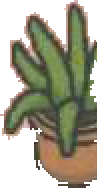
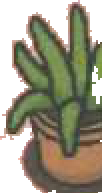
Murdoku: switch to a house theme with all object art cropped from the PDF
Per request, the map is now a house (Master Bedroom, Living Room, Kitchen, Guest
Room, Bathroom, Office, Hallway, Dining Room, Garden, Basement), so every object
can come straight from the reference book. All 8 objects are cropped from the
book's art: table, TV, plant, bookcase, box (blocked) and chair, rug, bed
(occupiable). No Iconify fallbacks remain.

- engine.js: house rooms/objects; occupiable model is chair/rug/bed; clues use
  the book's vocabulary ("sitting on a chair", "on the rug", "on a bed", "next
  to the box/table/bookcase", "in front of a window"). Rook rule, victim/culprit
  and accuse flow unchanged — 40/40 unique, 0 rook/crime violations.
- murdoku.js: all objects served as local PNG sprites; added room floor colours.
- Fixed the earlier colour-loss: background removal now floods from the edges and
  keeps only the largest blob, so light objects (chair) and tan ones (table, box)
  keep their fill instead of being eaten.

The book's object set is exactly these (its official "Lista de objetos"), so
this is the full, consistent set — no more mixed styles.

diff --git a/play/murdoku/engine.js b/play/murdoku/engine.js
@@ -1,15 +1,16 @@
-/* Murdoku — case engine (pure, no DOM). Murder + Sudoku.
-   Floor plan of named rooms (varied sizes). Walls are thin lines on tile edges.
-   Rules: every suspect stood on one floor tile; no two share a row or a column
-   (placing one rules out its row + column). Furniture is blocked; the bench is
-   occupiable. Suspects are shown in alphabetical order; avatars match each name's
-   gender. Text is EN or PT-PT (pre-1990 spelling) via localStorage "nftw:lang".
-   Cases seeded by number; clue sets minimised to one solution. Browser + Node. */
+/* Murdoku — case engine (pure, no DOM). Murder + Sudoku, house edition.
+   A house floor plan of named rooms (varied sizes). Walls are thin lines on tile
+   edges. Rules: every person stood on one floor tile; no two share a row or a
+   column (placing one rules out its row + column). Furniture is blocked (table,
+   TV, plant, bookcase, box); chairs, rugs and beds are occupiable. Suspects are
+   named alphabetically from A; the victim's name starts with V and shares a room
+   with exactly one suspect — the culprit. EN or PT-PT (pre-1990 spelling) via
+   localStorage "nftw:lang". Cases seeded by number; clues minimised to one
+   solution. Object art is cropped from the reference book. Browser + Node. */
 (function (global) {
   "use strict";
   const L = (typeof localStorage !== "undefined" && localStorage.getItem("nftw:lang") === "pt") ? "pt" : "en";
 
-  // Suspects are always named A, B, C … in order; the victim's name starts with V.
   const ALPHA = [
     { name: "Alice", color: "#e05a4a", g: "f" }, { name: "Benjamin", color: "#6c8cff", g: "m" },
     { name: "Charlotte", color: "#e8c84a", g: "f" }, { name: "Daniel", color: "#d98cc0", g: "m" },
@@ -22,66 +23,56 @@
     { name: "Victor", g: "m" }, { name: "Vivian", g: "f" }, { name: "Vincent", g: "m" },
     { name: "Vera", g: "f" }, { name: "Violet", g: "f" },
   ];
-  const FIX = {
-    crate: "the crates", banner: "the promo stand", cheese: "the deli counter",
-    flowers: "the flowers", plant: "the potted plant", apples: "the apples",
-    coffee: "the coffee machine", bread: "the fresh bread", desk: "the desk",
-    safe: "the safe", till: "the tills", tv: "the TV", bench: "the bench",
-  };
+  // objects (match the book). blocked: table/tv/plant/bookshelf/box; occupiable: chair/rug/bed.
+  const FIX = { table: "the table", tv: "the TV", plant: "the potted plant", bookshelf: "the bookcase", box: "the box", chair: "the chair", rug: "the rug", bed: "the bed" };
   const FIXPT = {
-    crate: { art: "os", noun: "caixotes" }, banner: { art: "o", noun: "expositor promocional" },
-    cheese: { art: "o", noun: "balcão da charcutaria" }, flowers: { art: "as", noun: "flores" },
-    plant: { art: "a", noun: "planta em vaso" }, apples: { art: "as", noun: "maçãs" },
-    coffee: { art: "a", noun: "máquina de café" }, bread: { art: "o", noun: "pão fresco" },
-    desk: { art: "a", noun: "secretária" }, safe: { art: "o", noun: "cofre" },
-    till: { art: "as", noun: "caixas registadoras" }, tv: { art: "a", noun: "televisão" }, bench: { art: "o", noun: "banco" },
+    table: { art: "a", noun: "mesa" }, tv: { art: "a", noun: "televisão" }, plant: { art: "a", noun: "planta" },
+    bookshelf: { art: "a", noun: "estante" }, box: { art: "a", noun: "caixa" }, chair: { art: "a", noun: "cadeira" },
+    rug: { art: "o", noun: "tapete" }, bed: { art: "a", noun: "cama" },
   };
   const DE = { o: "do", a: "da", os: "dos", as: "das" };
   const EM = { o: "no", a: "na", os: "nos", as: "nas" };
 
-  // ---- floor plan (rooms tile the interior; every tile belongs to a named room) ----
-  const W = 12, H = 12, TS = 32;   // 32px tiles ⇒ room for detailed, legible object art
+  const W = 12, H = 12, TS = 32;
   const idx = (x, y) => y * W + x;
   const ROOMS = [
-    { name: "Storage Room", pt: "Armazém", art: "o", color: "grey", x: 1, y: 1, w: 3, h: 3 },
-    { name: "Promotional Area", pt: "Área Promocional", art: "a", color: "green", x: 4, y: 1, w: 4, h: 2 },
-    { name: "Deli Counter", pt: "Charcutaria", art: "a", color: "yellow", x: 8, y: 1, w: 3, h: 4 },
-    { name: "Produce Section", pt: "Secção de Frescos", art: "a", color: "green", x: 4, y: 3, w: 4, h: 3 },
-    { name: "Flower Stand", pt: "Banca das Flores", art: "a", color: "green", x: 1, y: 4, w: 3, h: 3 },
+    { name: "Master Bedroom", pt: "Quarto Principal", art: "o", color: "blue", x: 1, y: 1, w: 3, h: 3 },
+    { name: "Living Room", pt: "Sala de Estar", art: "a", color: "green", x: 4, y: 1, w: 4, h: 2 },
+    { name: "Kitchen", pt: "Cozinha", art: "a", color: "tan", x: 8, y: 1, w: 3, h: 4 },
+    { name: "Guest Room", pt: "Quarto de Hóspedes", art: "o", color: "pink", x: 4, y: 3, w: 4, h: 3 },
+    { name: "Bathroom", pt: "Casa de Banho", art: "a", color: "blue", x: 1, y: 4, w: 3, h: 3 },
     { name: "Office", pt: "Escritório", art: "o", color: "grey", x: 4, y: 6, w: 4, h: 3 },
-    { name: "Staff Room", pt: "Sala do Pessoal", art: "a", color: "grey", x: 1, y: 7, w: 3, h: 2 },
-    { name: "Bakery", pt: "Padaria", art: "a", color: "yellow", x: 1, y: 9, w: 3, h: 2 },
-    { name: "Loading Bay", pt: "Cais de Carga", art: "o", color: "grey", x: 4, y: 9, w: 4, h: 2 },
-    { name: "Checkout", pt: "Caixas", art: "as", color: "yellow", x: 8, y: 6, w: 3, h: 5 },
+    { name: "Hallway", pt: "Corredor", art: "o", color: "tan", x: 1, y: 7, w: 3, h: 2 },
+    { name: "Dining Room", pt: "Sala de Jantar", art: "a", color: "yellow", x: 1, y: 9, w: 3, h: 2 },
+    { name: "Garden", pt: "Quintal", art: "o", color: "green", x: 4, y: 9, w: 4, h: 2 },
+    { name: "Basement", pt: "Cave", art: "a", color: "grey", x: 8, y: 6, w: 3, h: 5 },
   ];
-  const FURN = [
-    ["crate", 1, 1], ["crate", 3, 3], ["tv", 4, 1], ["banner", 6, 1],
-    ["cheese", 8, 1], ["cheese", 9, 1], ["cheese", 10, 1],
-    ["apples", 5, 3], ["apples", 6, 3], ["flowers", 1, 4], ["plant", 3, 6],
-    ["desk", 4, 6], ["safe", 6, 8], ["coffee", 1, 7],
-    ["bread", 1, 9], ["bread", 3, 10], ["crate", 5, 9], ["crate", 7, 10],
-    ["till", 8, 6], ["till", 9, 6], ["till", 10, 6],
+  const FURN = [ // blocked
+    ["plant", 3, 1], ["tv", 4, 1], ["plant", 7, 2], ["box", 8, 1], ["table", 9, 1], ["plant", 10, 3],
+    ["bookshelf", 4, 3], ["plant", 7, 5], ["plant", 1, 4], ["table", 4, 6], ["bookshelf", 7, 6], ["box", 6, 8],
+    ["plant", 1, 8], ["table", 2, 9], ["plant", 3, 10], ["plant", 5, 9], ["box", 7, 10],
+    ["box", 8, 6], ["box", 9, 6], ["bookshelf", 10, 10], ["tv", 8, 10],
   ];
-  const BENCH = [[2, 8], [3, 8]];                 // 2-tile bench in the Staff Room (occupiable)
-  const RUGS = [[5, 7]];                          // rug in the Office (occupiable)
+  const OCC = [ // occupiable (walkable): a person can be on a chair, rug or bed
+    ["bed", 1, 1], ["chair", 6, 1], ["bed", 5, 3], ["rug", 2, 5],
+    ["chair", 5, 7], ["rug", 2, 7], ["chair", 1, 9], ["rug", 10, 9], ["chair", 3, 3], ["rug", 9, 8],
+  ];
   const VOID = [[8, 5], [9, 5], [10, 5]];
   const WINDOWS = [[5, 1, "T"], [9, 1, "T"], [10, 7, "R"], [10, 9, "R"], [1, 5, "L"], [1, 10, "L"]];
 
   function buildMap() {
     const roomAt = (x, y) => ROOMS.findIndex((r) => x >= r.x && x < r.x + r.w && y >= r.y && y < r.y + r.h);
     const furnAt = {}; FURN.forEach(([k, x, y]) => (furnAt[idx(x, y)] = k));
-    const benchSet = new Set(BENCH.map(([x, y]) => idx(x, y)));
-    const rugSet = new Set(RUGS.map(([x, y]) => idx(x, y)));
+    const occAt = {}; OCC.forEach(([k, x, y]) => (occAt[idx(x, y)] = k));
     const voidSet = new Set(VOID.map(([x, y]) => idx(x, y)));
     const tiles = new Array(W * H);
     for (let y = 0; y < H; y++) for (let x = 0; x < W; x++) {
       const i = idx(x, y);
       const interior = x >= 1 && x <= W - 2 && y >= 1 && y <= H - 2 && !voidSet.has(i);
       let type = "void", room = -1;
-      if (interior) { room = roomAt(x, y); type = furnAt[i] ? "furn" : (benchSet.has(i) ? "bench" : (rugSet.has(i) ? "rug" : "floor")); }
-      tiles[i] = { x, y, room, type, fixture: furnAt[i] || null, walkable: (type === "floor" || type === "bench" || type === "rug") };
+      if (interior) { room = roomAt(x, y); type = furnAt[i] ? "furn" : (occAt[i] ? "occ" : "floor"); }
+      tiles[i] = { x, y, room, type, fixture: furnAt[i] || null, occ: occAt[i] || null, walkable: (type === "floor" || type === "occ") };
     }
-    // room label anchored to the bottom-centre of each room so it doesn't cover objects
     ROOMS.forEach((r) => (r.label = { x: r.x + (r.w - 1) / 2, y: r.y + r.h - 1 }));
     return tiles;
   }
@@ -89,24 +80,23 @@
   function context(tiles) {
     const walk = [], roomCells = [];
     for (const t of tiles) if (t.walkable) { walk.push(idx(t.x, t.y)); if (t.room >= 0) roomCells.push(idx(t.x, t.y)); }
-    const beside = {};                              // "ao lado" = orthogonally adjacent, SAME division only
-    for (const t of tiles) if (t.fixture) {
-      const s = beside[t.fixture] || (beside[t.fixture] = new Set());
+    const beside = {};                              // "ao lado" of an object — adjacent, SAME room
+    for (const t of tiles) { const k = t.fixture || t.occ; if (!k) continue;
+      const s = beside[k] || (beside[k] = new Set());
       [[1, 0], [-1, 0], [0, 1], [0, -1]].forEach(([dx, dy]) => {
         const nx = t.x + dx, ny = t.y + dy; if (nx < 0 || ny < 0 || nx >= W || ny >= H) return;
-        const n = tiles[idx(nx, ny)];
-        if (n.walkable && n.room === t.room) s.add(idx(nx, ny));
+        const n = tiles[idx(nx, ny)]; if (n.walkable && n.room === t.room) s.add(idx(nx, ny));
       });
     }
-    const benchSet = new Set(BENCH.map(([x, y]) => idx(x, y)));
-    const rugSet = new Set(RUGS.map(([x, y]) => idx(x, y)));
-    const windowFront = new Set();                  // walkable cells that sit against a window
+    const occ = {};                                 // occupiable cells by kind (chair/rug/bed)
+    for (const t of tiles) if (t.occ) (occ[t.occ] || (occ[t.occ] = new Set())).add(idx(t.x, t.y));
+    const windowFront = new Set();
     for (const w of WINDOWS) { const i = idx(w[0], w[1]); if (tiles[i] && tiles[i].walkable) windowFront.add(i); }
-    // cells describable by an authentic clue (beside object / occupiable / window)
     const describable = new Set();
     for (const k in beside) beside[k].forEach((t) => describable.add(t));
-    benchSet.forEach((t) => describable.add(t)); rugSet.forEach((t) => describable.add(t)); windowFront.forEach((t) => describable.add(t));
-    return { tiles, walk, roomCells, beside, benchSet, rugSet, windowFront, describable };
+    for (const k in occ) occ[k].forEach((t) => describable.add(t));
+    windowFront.forEach((t) => describable.add(t));
+    return { tiles, walk, roomCells, beside, occ, windowFront, describable };
   }
 
   const rowPh = { 2: ["at the back of", "at the front of"], 3: ["at the back of", "in the middle of", "at the front of"], 4: ["at the very back of", "towards the back of", "towards the front of", "at the very front of"], 5: ["at the very back of", "near the back of", "in the middle of", "near the front of", "at the very front of"] };
@@ -119,8 +109,7 @@
     if (c.t === "inroom") return T.room === c.z;
     if (c.t === "negroom") return T.room !== c.z;
     if (c.t === "beside") return ctx.beside[c.k] && ctx.beside[c.k].has(tile);
-    if (c.t === "bench") return ctx.benchSet.has(tile);
-    if (c.t === "rug") return ctx.rugSet.has(tile);
+    if (c.t === "occ") return ctx.occ[c.k] && ctx.occ[c.k].has(tile);
     if (c.t === "window") return ctx.windowFront.has(tile);
     if (c.t === "row") return T.room === c.z && (T.y - R.y) === c.v;
     if (c.t === "col") return T.room === c.z && (T.x - R.x) === c.v;
@@ -156,10 +145,7 @@
   function mulberry32(a) { return function () { a |= 0; a = (a + 0x6D2B79F5) | 0; let t = Math.imul(a ^ (a >>> 15), 1 | a); t = (t + Math.imul(t ^ (t >>> 7), 61 | t)) ^ t; return ((t ^ (t >>> 14)) >>> 0) / 4294967296; }; }
   const shuffle = (arr, rng) => { const a = arr.slice(); for (let i = a.length - 1; i > 0; i--) { const j = Math.floor(rng() * (i + 1)); [a[i], a[j]] = [a[j], a[i]]; } return a; };
 
-  // Place the victim + exactly one suspect (the culprit) together in a room, and
-  // the other suspects in OTHER rooms — all on distinct rows & columns (rook rule).
   function pickCrimePositions(ctx, NS, rng) {
-    // prefer object-describable cells so authentic clues can pin them (position clues stay rare)
     const descFirst = (arr) => shuffle(arr, rng).sort((a, b) => (ctx.describable.has(b) ? 1 : 0) - (ctx.describable.has(a) ? 1 : 0));
     const big = [];
     for (let i = 0; i < ROOMS.length; i++) if (ROOMS[i].w >= 2 && ROOMS[i].h >= 2) big.push(i);
@@ -185,7 +171,7 @@
     positions[culprit] = cc;
     let fi = 0;
     for (let s = 0; s < NS; s++) if (s !== culprit) positions[s] = four[fi++];
-    positions[NS] = vc; // victim is the last entity
+    positions[NS] = vc;
     return { positions, culprit };
   }
   function pickAnyRook(ctx, M, rng) {
@@ -194,16 +180,12 @@
     return null;
   }
 
-  // Authentic Murdoku clues (object-relative / occupiable / window / room) are
-  // "flavour" and kept; the position-in-room clues are a last-resort fallback so
-  // they only appear when the object clues can't pin the cell on their own.
   function candidateClues(truth, ctx, N) {
     const flavour = [], pinRoom = [], pinPos = [];
     for (let s = 0; s < N; s++) {
       const tile = truth[s], T = ctx.tiles[tile], R = ROOMS[T.room];
       for (const k in ctx.beside) if (ctx.beside[k].has(tile)) flavour.push({ t: "beside", s, k });
-      if (ctx.benchSet.has(tile)) flavour.push({ t: "bench", s });
-      if (ctx.rugSet.has(tile)) flavour.push({ t: "rug", s });
+      if (T.occ) flavour.push({ t: "occ", s, k: T.occ });
       if (ctx.windowFront.has(tile)) flavour.push({ t: "window", s });
       pinRoom.push({ t: "inroom", s, z: T.room });
       if (rowPh[R.h]) pinPos.push({ t: "row", s, z: T.room, v: T.y - R.y });
@@ -212,21 +194,21 @@
     return { flavour, pinRoom, pinPos };
   }
 
-  const TITLES = ["The Purchase No One Made", "A Scandal in Aisle Three", "The Vanishing Trolley", "Whodunit at Closing Time", "The Missing Receipt", "Trouble at the Deli", "The Five O'Clock Alibi", "The Spilled Secret"];
-  const TITLESPT = ["A Compra Que Ninguém Fez", "Um Escândalo no Corredor Três", "O Carrinho Desaparecido", "Mistério à Hora de Fecho", "O Recibo Desaparecido", "Problemas na Charcutaria", "O Álibi das Cinco", "O Segredo Revelado"];
-  const CRIMES = ["a priceless bottle of wine vanished from the shelves", "the till came up short by a small fortune", "a threatening note was left for the manager", "the prize hamper was swapped for a fake", "someone tampered with the freezer"];
-  const CRIMESPT = ["desapareceu uma garrafa de vinho valiosíssima das prateleiras", "a caixa ficou a faltar uma pequena fortuna", "foi deixado um bilhete ameaçador ao gerente", "o cabaz do prémio foi trocado por um falso", "alguém mexeu no congelador"];
+  const TITLES = ["The Purchase No One Made", "A Scandal in the Study", "The Vanishing Heirloom", "Whodunit After Dark", "The Missing Will", "Trouble in the Attic", "The Five O'Clock Alibi", "The Spilled Secret"];
+  const TITLESPT = ["O Crime de Ontem à Noite", "Um Escândalo no Escritório", "A Herança Desaparecida", "Mistério ao Anoitecer", "O Testamento Perdido", "Problemas no Sótão", "O Álibi das Cinco", "O Segredo Revelado"];
+  const CRIMES = ["a priceless heirloom vanished from the mantel", "a threatening note was left on the table", "the safe was found wide open", "someone had been through the drawers", "a wine glass lay shattered on the floor"];
+  const CRIMESPT = ["desapareceu uma relíquia valiosíssima da lareira", "foi deixado um bilhete ameaçador na mesa", "o cofre foi encontrado escancarado", "alguém remexeu nas gavetas", "um copo de vinho apareceu partido no chão"];
 
   function generateCase(num) {
     const rng = mulberry32(((num + 1) * 2654435761) >>> 0);
     const tiles = buildMap();
     const ctx = context(tiles);
-    const NS = 5; // suspects (alphabetical, always the same A–E roster)
+    const NS = 5;
     const suspects = ALPHA.slice(0, NS).map((s) => ({ name: s.name, color: s.color, g: s.g }));
     const v = VICTIMS[Math.floor(rng() * VICTIMS.length)];
     const victim = { name: v.name, color: "#9aa0a8", g: v.g, isVictim: true };
-    const people = suspects.concat([victim]);   // index NS = victim
-    const M = people.length;                     // 6 placeable people
+    const people = suspects.concat([victim]);
+    const M = people.length;
     let place = null;
     for (let a = 0; a < 300 && !place; a++) place = pickCrimePositions(ctx, NS, rng);
     if (!place) place = { positions: pickAnyRook(ctx, M, rng) || ctx.roomCells.slice(0, M), culprit: 0 };
@@ -239,8 +221,8 @@
     }
     const ci = Math.floor(rng() * CRIMES.length);
     const brief = L === "pt"
-      ? `Hora de fecho, e ${CRIMESPT[ci]}. ${victim.name} foi encontrad${victim.g === "f" ? "a" : "o"} sem vida. Estavam ${NS} pessoas lá dentro — e não havia duas na mesma linha ou coluna. Descobre onde estava cada uma; o culpado é quem ficou sozinho com a vítima.`
-      : `Closing time, and ${CRIMES[ci]}. ${victim.name} was found dead. ${NS} people were still inside — and no two shared a row or column. Work out where everyone stood; the culprit is whoever was alone with the victim.`;
+      ? `Noite de crime numa casa, e ${CRIMESPT[ci]}. ${victim.name} foi encontrad${victim.g === "f" ? "a" : "o"} sem vida. Estavam ${NS} pessoas lá dentro — e não havia duas na mesma linha ou coluna. Descobre onde estava cada uma; o culpado é quem ficou sozinho com a vítima.`
+      : `A crime one night at a house, and ${CRIMES[ci]}. ${victim.name} was found dead. ${NS} people were inside — and no two shared a row or column. Work out where everyone stood; the culprit is whoever was alone with the victim.`;
     return {
       num, N: M, suspectCount: NS, victimIdx: NS, culprit: place.culprit,
       W, H, TS, tiles, rooms: ROOMS, walkable: ctx.walk, windows: WINDOWS, lang: L,
@@ -252,25 +234,24 @@
     };
   }
 
+  const OCCEN = { chair: (n) => `${n} was sitting on a chair.`, rug: (n) => `${n} was standing on the rug.`, bed: (n) => `${n} was on a bed.` };
   function clueText(c, S) {
     const nm = (i) => S[i].name, rn = (z) => ROOMS[z].name, R = (z) => ROOMS[z];
-    if (c.t === "inroom") return pick([`${nm(c.s)} was in the ${rn(c.z)}.`, `${nm(c.s)} spent closing in the ${rn(c.z)}.`], c);
-    if (c.t === "negroom") return `${nm(c.s)} was never near the ${rn(c.z)}.`;
+    if (c.t === "inroom") return pick([`${nm(c.s)} was in the ${rn(c.z)}.`, `${nm(c.s)} spent the evening in the ${rn(c.z)}.`], c);
+    if (c.t === "negroom") return `${nm(c.s)} was never in the ${rn(c.z)}.`;
     if (c.t === "beside") return pick([`${nm(c.s)} was right beside ${FIX[c.k]}.`, `${nm(c.s)} was next to ${FIX[c.k]}.`], c);
-    if (c.t === "bench") return `${nm(c.s)} was sitting on the bench.`;
-    if (c.t === "rug") return `${nm(c.s)} was standing on the rug.`;
+    if (c.t === "occ") return OCCEN[c.k](nm(c.s));
     if (c.t === "window") return `${nm(c.s)} was standing in front of a window.`;
     if (c.t === "row") return `${nm(c.s)} was ${rowPh[R(c.z).h][c.v]} the ${rn(c.z)}.`;
     if (c.t === "col") return `${nm(c.s)} was ${colPh[R(c.z).w][c.v]} the ${rn(c.z)}.`;
     return "";
   }
   function clueTextPt(c, S) {
-    const nm = (i) => S[i].name, R = (z) => ROOMS[z], rn = (z) => ROOMS[z].pt, de = (z) => DE[ROOMS[z].art], em = (z) => EM[ROOMS[z].art];
-    if (c.t === "inroom") return pick([`${nm(c.s)} estava ${em(c.z)} ${rn(c.z)}.`, `${nm(c.s)} passou o fecho ${em(c.z)} ${rn(c.z)}.`], c);
-    if (c.t === "negroom") return `${nm(c.s)} nunca esteve perto ${de(c.z)} ${rn(c.z)}.`;
+    const nm = (i) => S[i].name, gg = (i) => S[i].g === "f" ? "a" : "o", R = (z) => ROOMS[z], rn = (z) => ROOMS[z].pt, de = (z) => DE[ROOMS[z].art], em = (z) => EM[ROOMS[z].art];
+    if (c.t === "inroom") return pick([`${nm(c.s)} estava ${em(c.z)} ${rn(c.z)}.`, `${nm(c.s)} passou a noite ${em(c.z)} ${rn(c.z)}.`], c);
+    if (c.t === "negroom") return `${nm(c.s)} nunca esteve ${em(c.z)} ${rn(c.z)}.`;
     if (c.t === "beside") { const f = FIXPT[c.k]; return `${nm(c.s)} estava ao lado ${DE[f.art]} ${f.noun}.`; }
-    if (c.t === "bench") return `${nm(c.s)} estava sentad${S[c.s].g === "f" ? "a" : "o"} no banco.`;
-    if (c.t === "rug") return `${nm(c.s)} estava em cima do tapete.`;
+    if (c.t === "occ") { if (c.k === "chair") return `${nm(c.s)} estava sentad${gg(c.s)} numa cadeira.`; if (c.k === "bed") return `${nm(c.s)} estava deitad${gg(c.s)} numa cama.`; return `${nm(c.s)} estava em cima do tapete.`; }
     if (c.t === "window") return `${nm(c.s)} estava em frente a uma janela.`;
     if (c.t === "row") return `${nm(c.s)} estava ${rowPt[R(c.z).h][c.v]} ${de(c.z)} ${rn(c.z)}.`;
     if (c.t === "col") return `${nm(c.s)} estava ${colPt[R(c.z).w][c.v]} ${de(c.z)} ${rn(c.z)}.`;

diff --git a/play/murdoku/murdoku.js b/play/murdoku/murdoku.js
@@ -51,7 +51,7 @@
   const START = (new URLSearchParams(location.search).get("case") | 0) || lsGet(CURKEY, 0) || 0;
 
   // ---------- pixel-art tileset ----------
-  const ZTINT = { green: "#b7e0a5", yellow: "#f2df84", grey: "#d2d2db" };
+  const ZTINT = { green: "#b7e0a5", yellow: "#f2df84", grey: "#d2d2db", blue: "#bcd8e8", tan: "#e6d6b8", pink: "#f0c8d8", purple: "#d3c2e8" };
   function drawMap() {
     const cv = document.getElementById("md-canvas"); if (!cv) return;
     const TS = C.TS, W = C.W, H = C.H;
@@ -98,34 +98,17 @@
       b(xx, py, th, S, FR); b(xx + 1, py + ins, th - 2, S - 2 * ins, GL); b(xx + 1, py + ins, 1, S - 2 * ins, SK); b(xx, py + (S >> 1) - 1, th, 2, FR);
     }
   }
-  // ---- object sprites from the Iconify API (hosted SVGs, free/no key — like DiceBear) ----
-  const OBJICON = {
-    crate: ["mdi/package-variant-closed", "a9773f"], till: ["mdi/cash-register", "7c8590"],
-    coffee: ["mdi/coffee-maker", "6b7079"], apples: ["mdi/food-apple", "d0402e"],
-    bread: ["mdi/baguette", "c98f3e"], cheese: ["mdi/cheese", "e0b23a"],
-    flowers: ["mdi/flower", "e05a90"], plant: ["mdi/sprout", "3f9a4f"],
-    banner: ["mdi/sign-text", "e0483a"], safe: ["mdi/safe", "5a616b"],
-    desk: ["mdi/desk", "9a6a3a"], tv: ["mdi/television-classic", "333842"],
-    bench: ["mdi/seat", "9a6a3a"], rug: ["mdi/rug", "b0433a"],
-  };
-  // Objects with a hand-styled illustrated sprite in the repo (cozy PDF look); the
-  // rest fall back to Iconify until they're generated too.
-  // crate/till/coffee/apples = generated in the book's style; desk/tv/plant/bench/rug
-  // = cropped straight from the reference PDF's object art. The rest fall back to Iconify.
-  const LOCALOBJ = { crate: 1, till: 1, coffee: 1, apples: 1, desk: 1, tv: 1, plant: 1, bench: 1, rug: 1 };
-  const objSprite = (key) => {
-    if (LOCALOBJ[key]) return `/assets/img/murdoku/${key}.png?v=2`;
-    const o = OBJICON[key] || OBJICON.crate; return `https://api.iconify.design/${o[0]}.svg?color=%23${o[1]}`;
-  };
+  // ---- object sprites cropped from the reference book, hosted in the repo ----
+  const objSprite = (key) => `/assets/img/murdoku/${key}.png?v=3`;
   function fixtureLayer() {
     const fx = document.getElementById("md-fix"); if (!fx) return;
     let html = "";
     for (const t of C.tiles) {
-      const key = t.type === "bench" ? "bench" : (t.type === "rug" ? "rug" : t.fixture);
+      const key = t.occ || t.fixture;
       if (!key) continue;
-      const occ = (t.type === "bench" || t.type === "rug");
+      const occ = !!t.occ;
       const style = `left:${t.x / C.W * 100}%;top:${t.y / C.H * 100}%;width:${100 / C.W}%;height:${100 / C.H}%`;
-      html += `<span class="mdm-fx${occ ? " occ" : ""}${LOCALOBJ[key] ? " ai" : ""}" style="${style}"><img src="${objSprite(key)}" alt="" referrerpolicy="no-referrer"></span>`;
+      html += `<span class="mdm-fx ai${occ ? " occ" : ""}" style="${style}"><img src="${objSprite(key)}" alt="" referrerpolicy="no-referrer"></span>`;
     }
     fx.innerHTML = html;
   }

diff --git a/play/murdoku/index.html b/play/murdoku/index.html
@@ -24,8 +24,8 @@
     <div id="md-root"><p style="color:var(--muted)">Dealing the case…</p></div>
   </main>
   <footer class="site-footer"><div class="container"><span>Built by NightmareFTW · Murdoku is an original logic-deduction game. Pixel-art tiles &amp; avatars are original / DiceBear.</span></div></footer>
-  <script src="engine.js?v=10"></script>
-  <script src="murdoku.js?v=12"></script>
+  <script src="engine.js?v=13"></script>
+  <script src="murdoku.js?v=13"></script>
   <script src="/assets/js/i18n.js" defer></script>
 </body>
 </html>

diff --git a/assets/css/style.css b/assets/css/style.css
@@ -2201,7 +2201,7 @@ a.play-card:hover { transform: translateY(-3px); border-color: var(--accent); }
 .mdm-fix { z-index: 1; }
 .mdm-fx { position: absolute; display: grid; place-items: center; }
 .mdm-fx img { width: 82%; height: 82%; object-fit: contain; filter: drop-shadow(0 1px 1.5px rgba(0,0,0,.35)); }
-.mdm-fx.occ img { width: 66%; height: 66%; opacity: .9; }
+.mdm-fx.occ img { width: 90%; height: 90%; }
 .mdm-fx.ai img { width: 96%; height: 96%; filter: drop-shadow(0 1px 2px rgba(0,0,0,.28)); }
 .mdm-overlay { z-index: 2; }
 .mdm-labels { z-index: 3; }